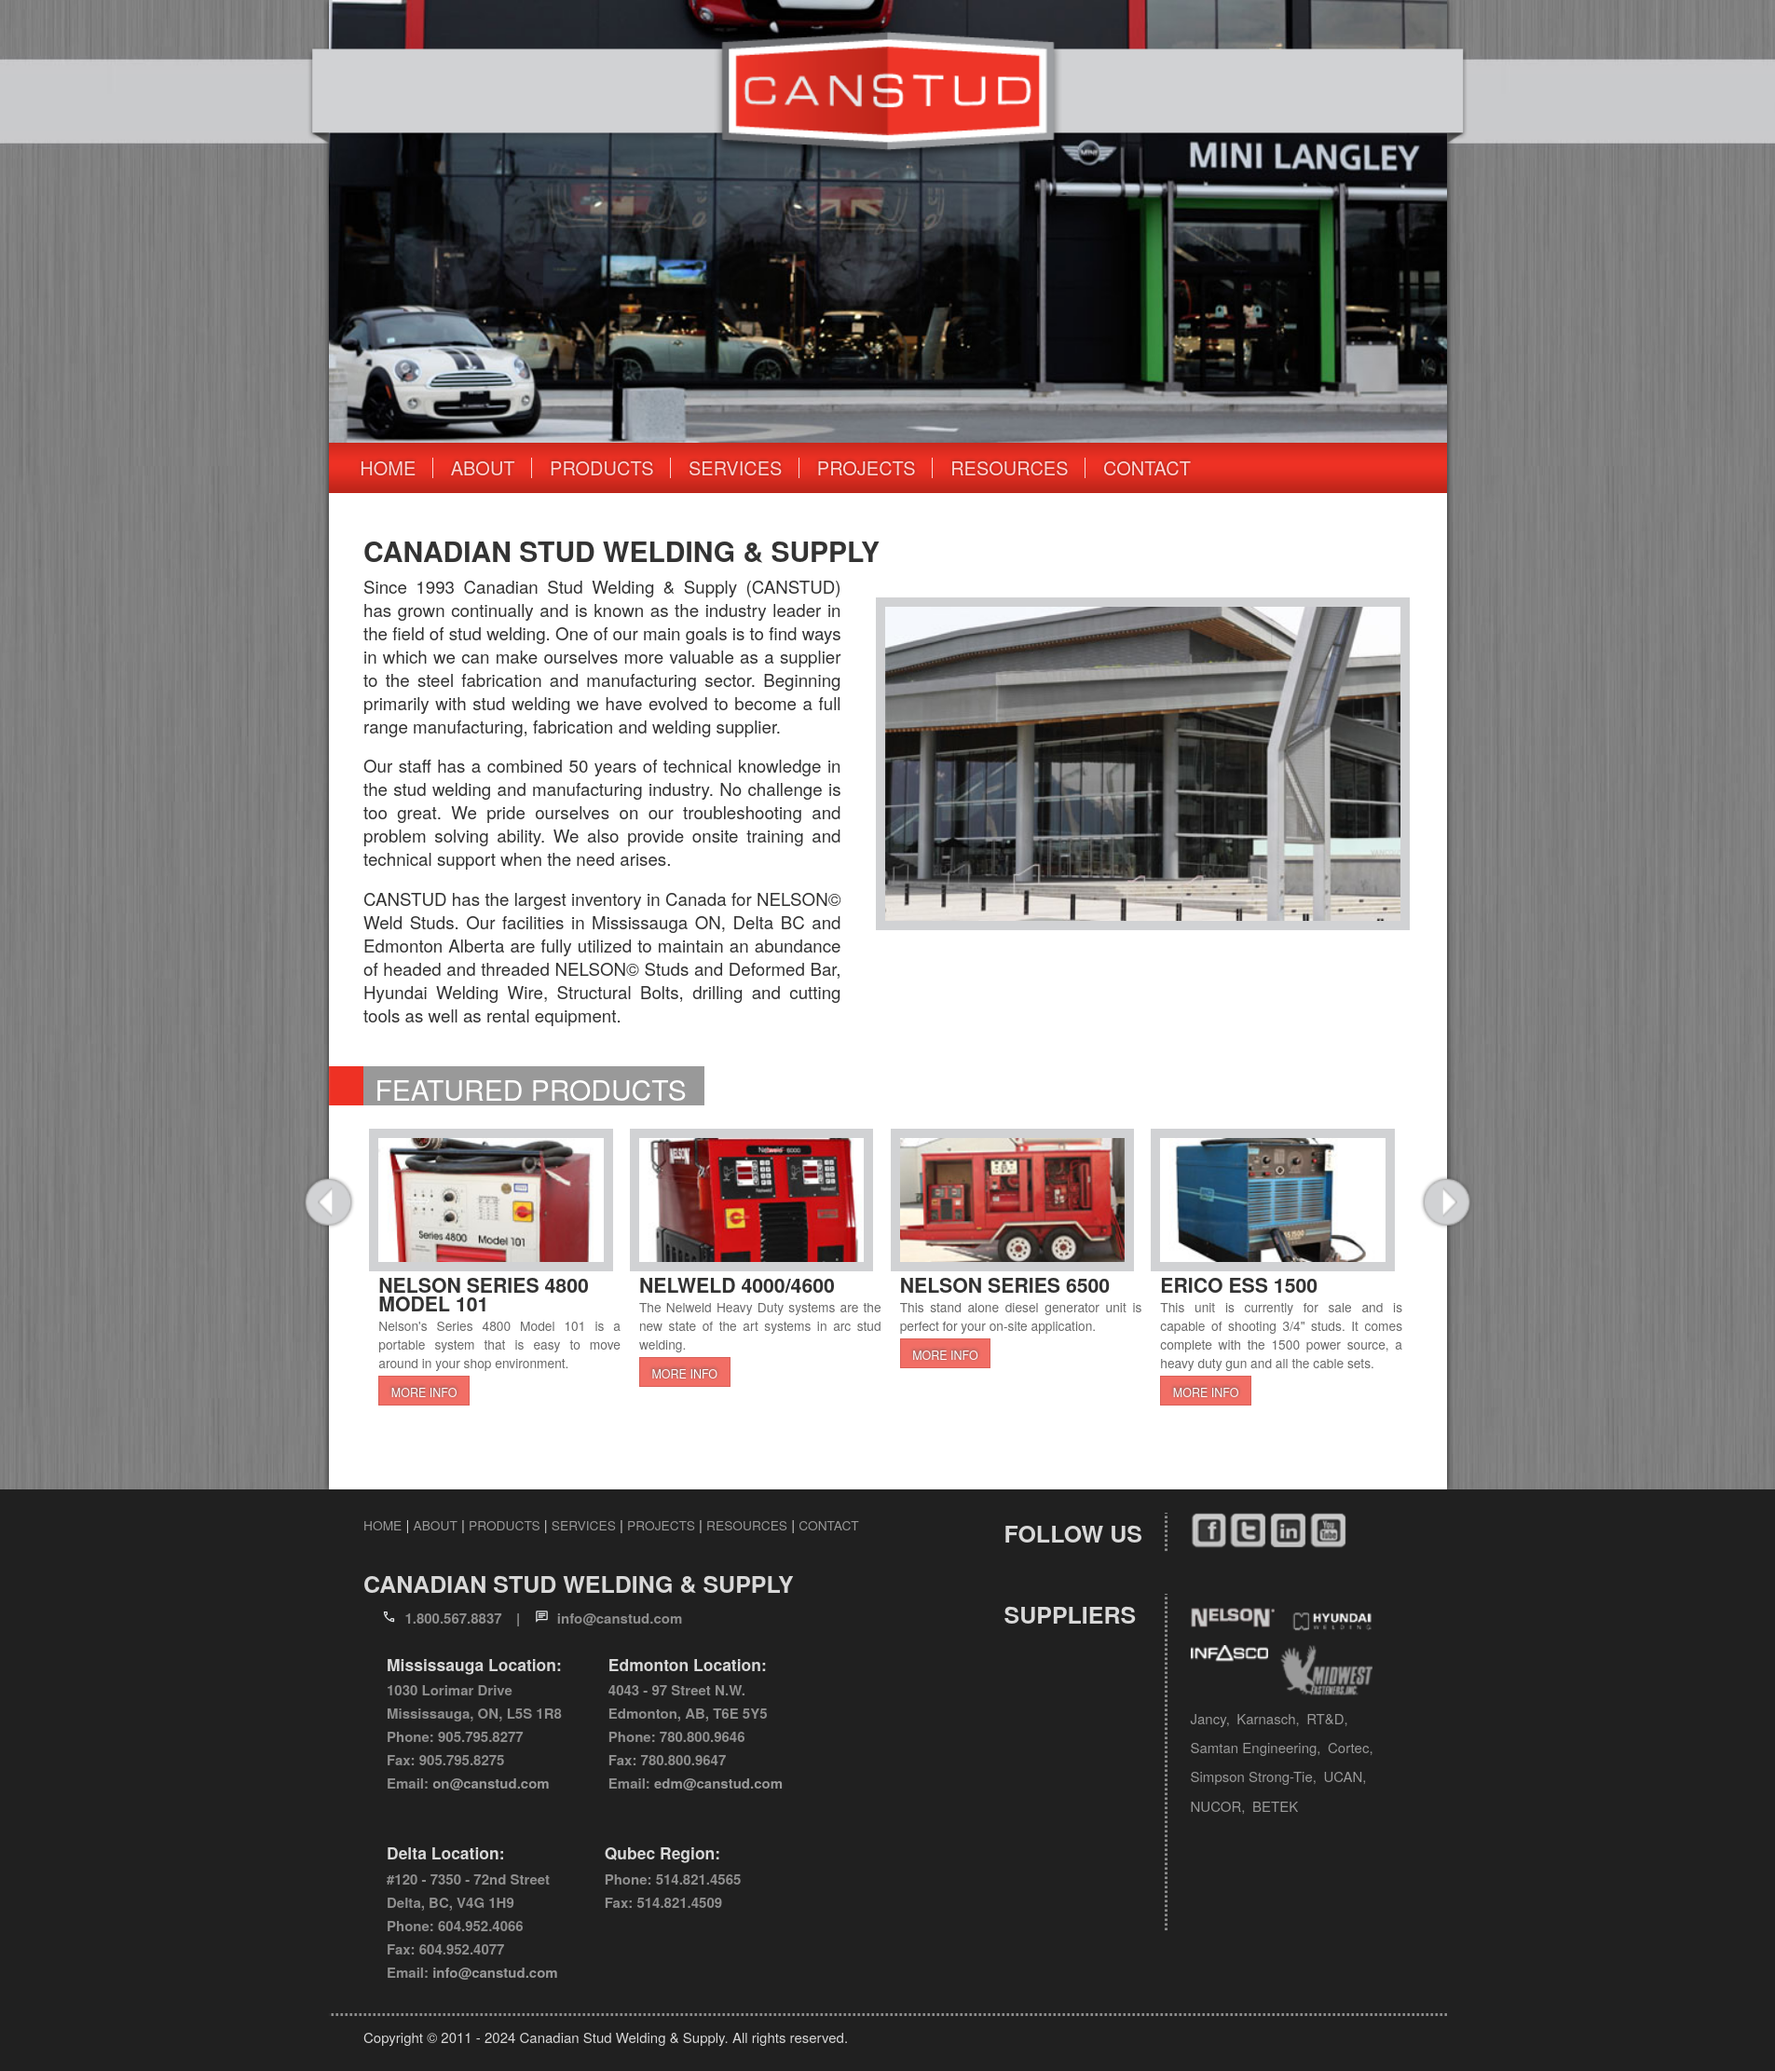
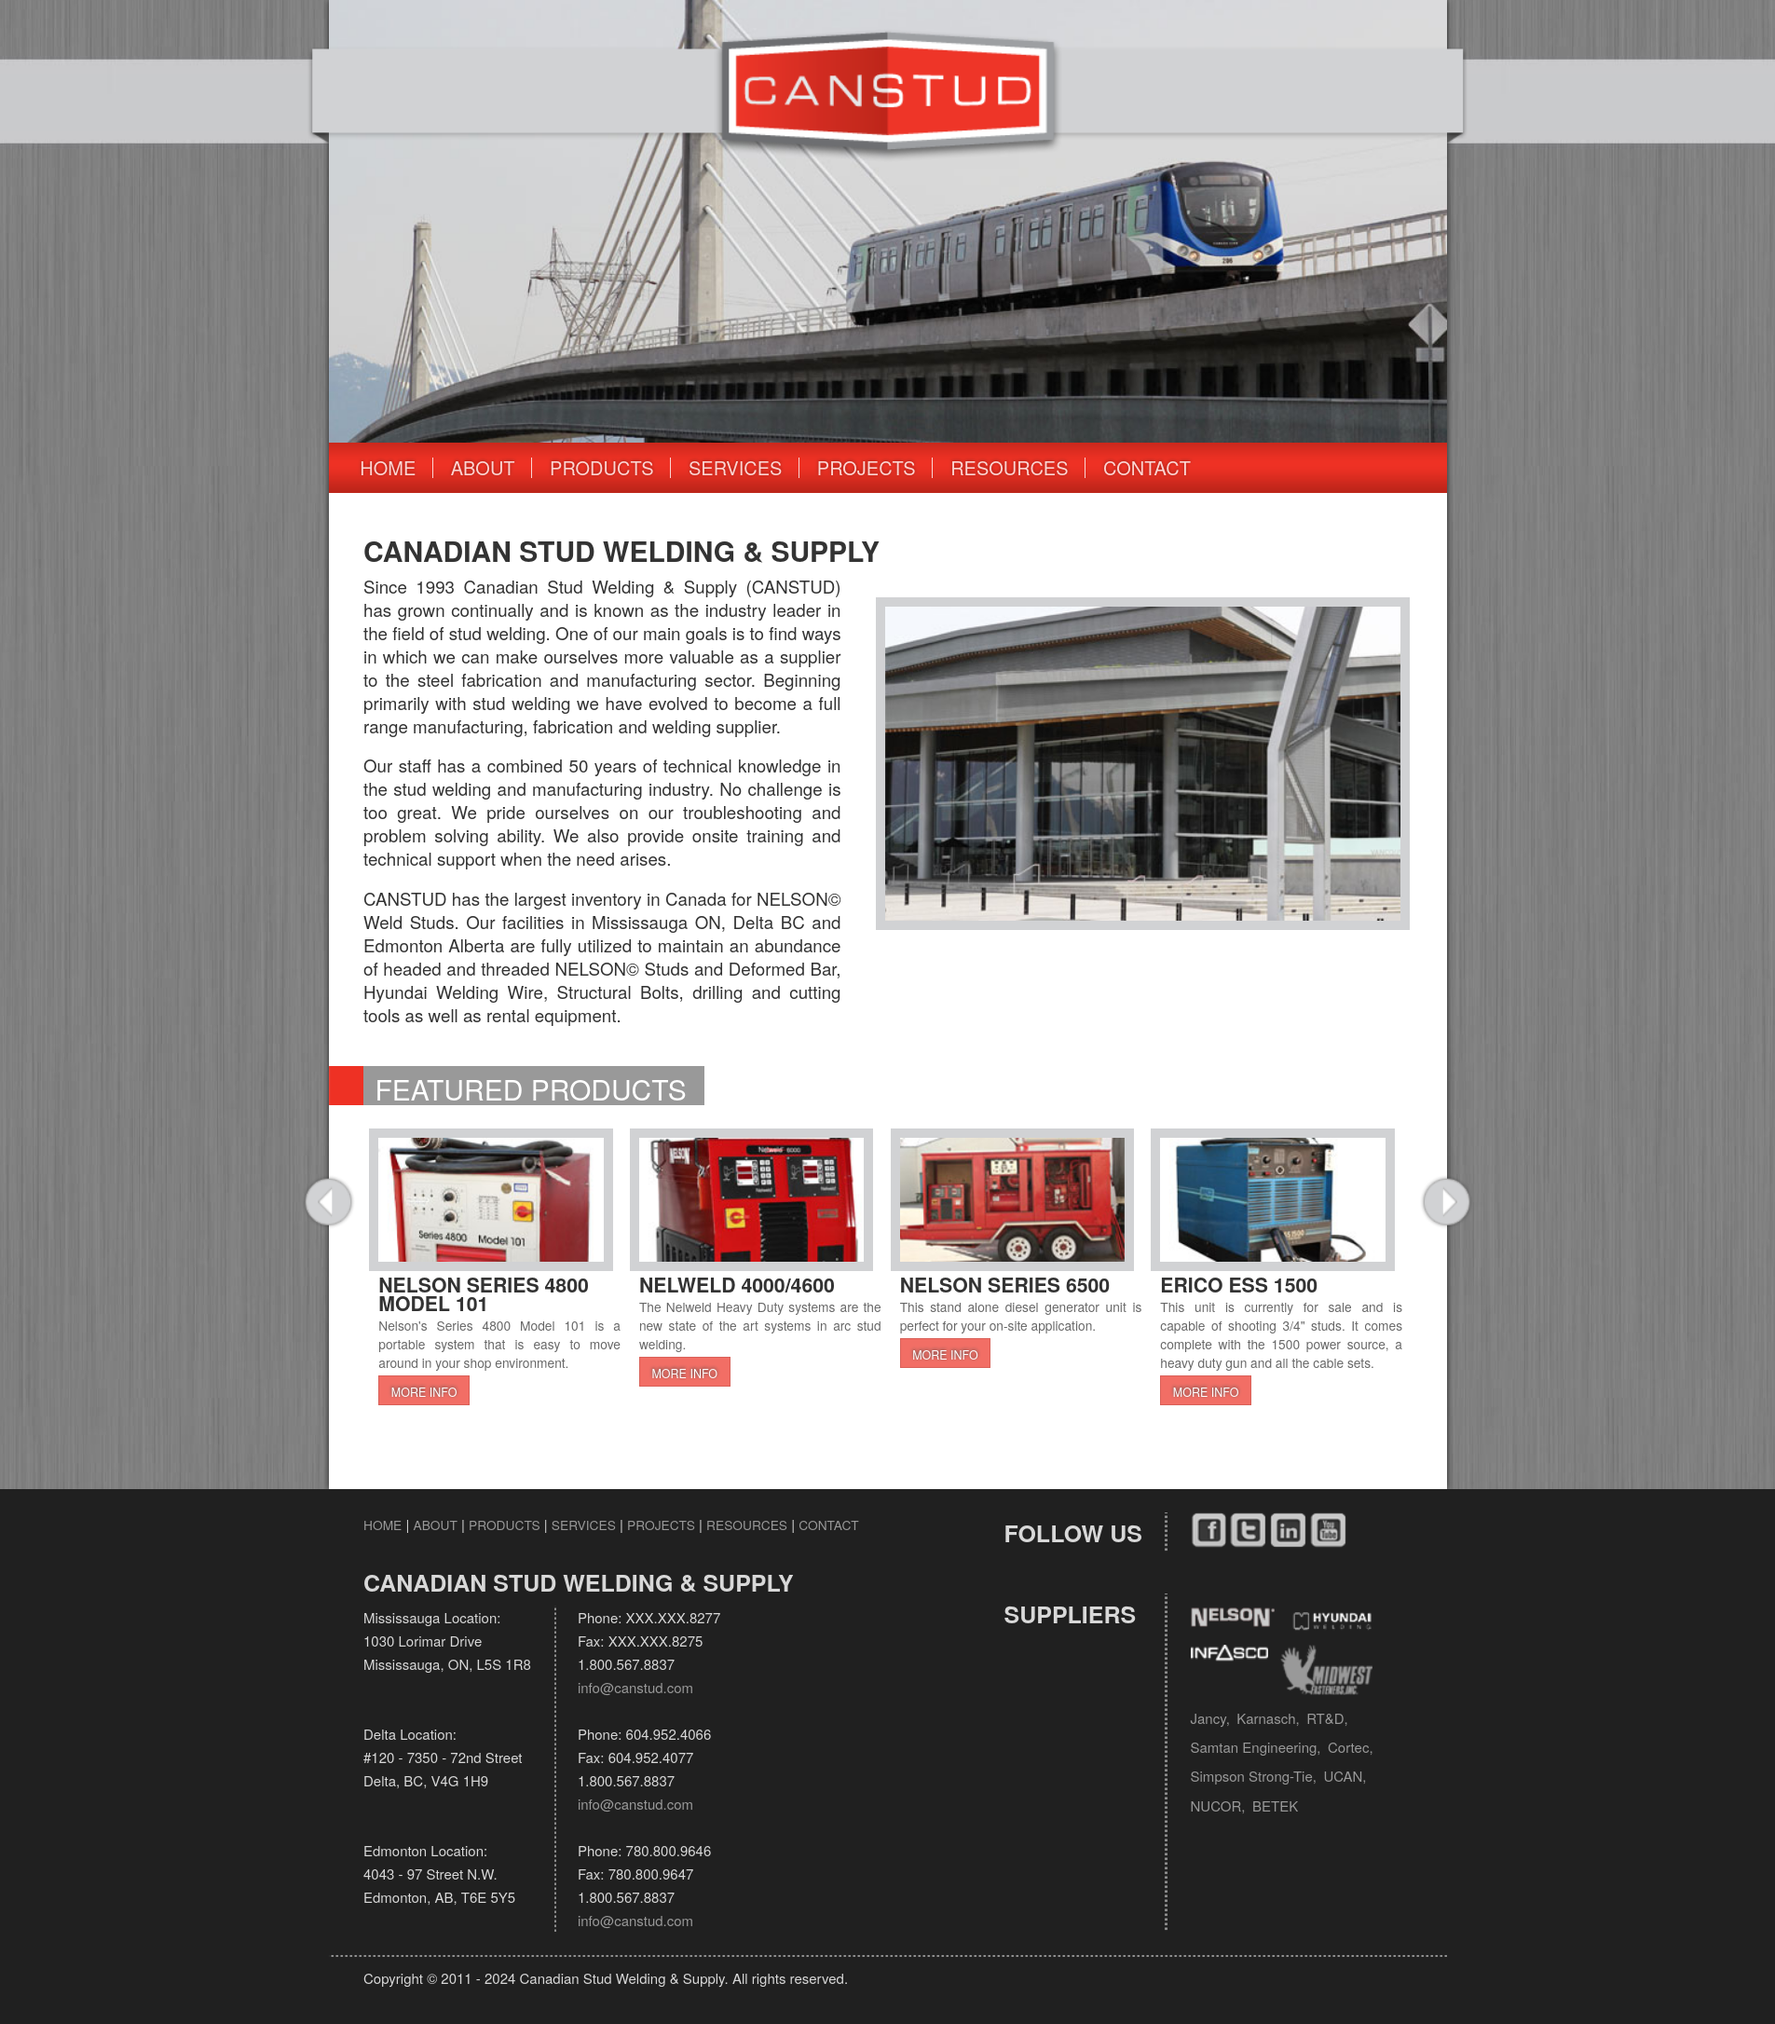
Preview v2

Changed region(s): [[0.0, 0.0, 1.0, 0.9871], [0.8052, 0.5552, 0.8362, 0.6169]]

diff --git a/index.html b/index.html
@@ -22,6 +22,6 @@
     </style>
 </head>
 <body>
-<img src="image.png" alt="Image">
+<img src="image-v2.png" alt="Image">
 </body>
 </html>
